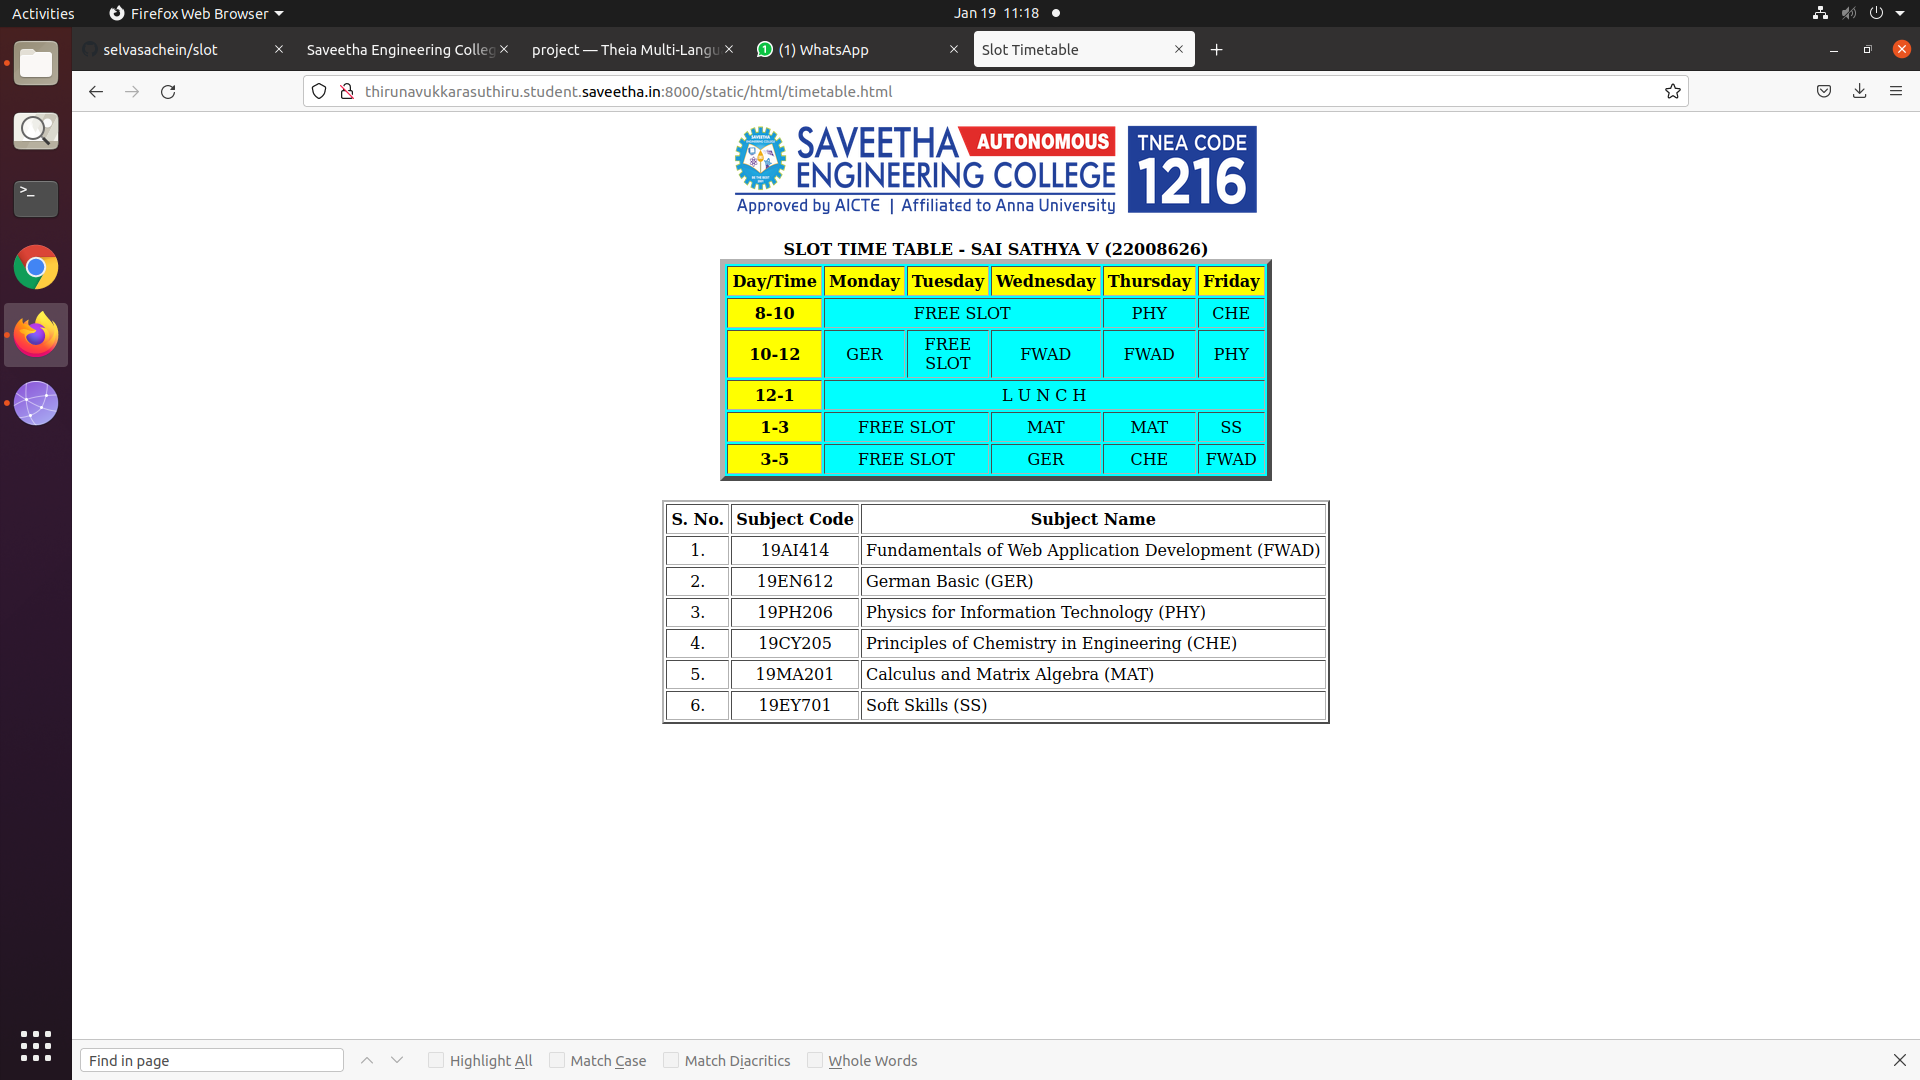
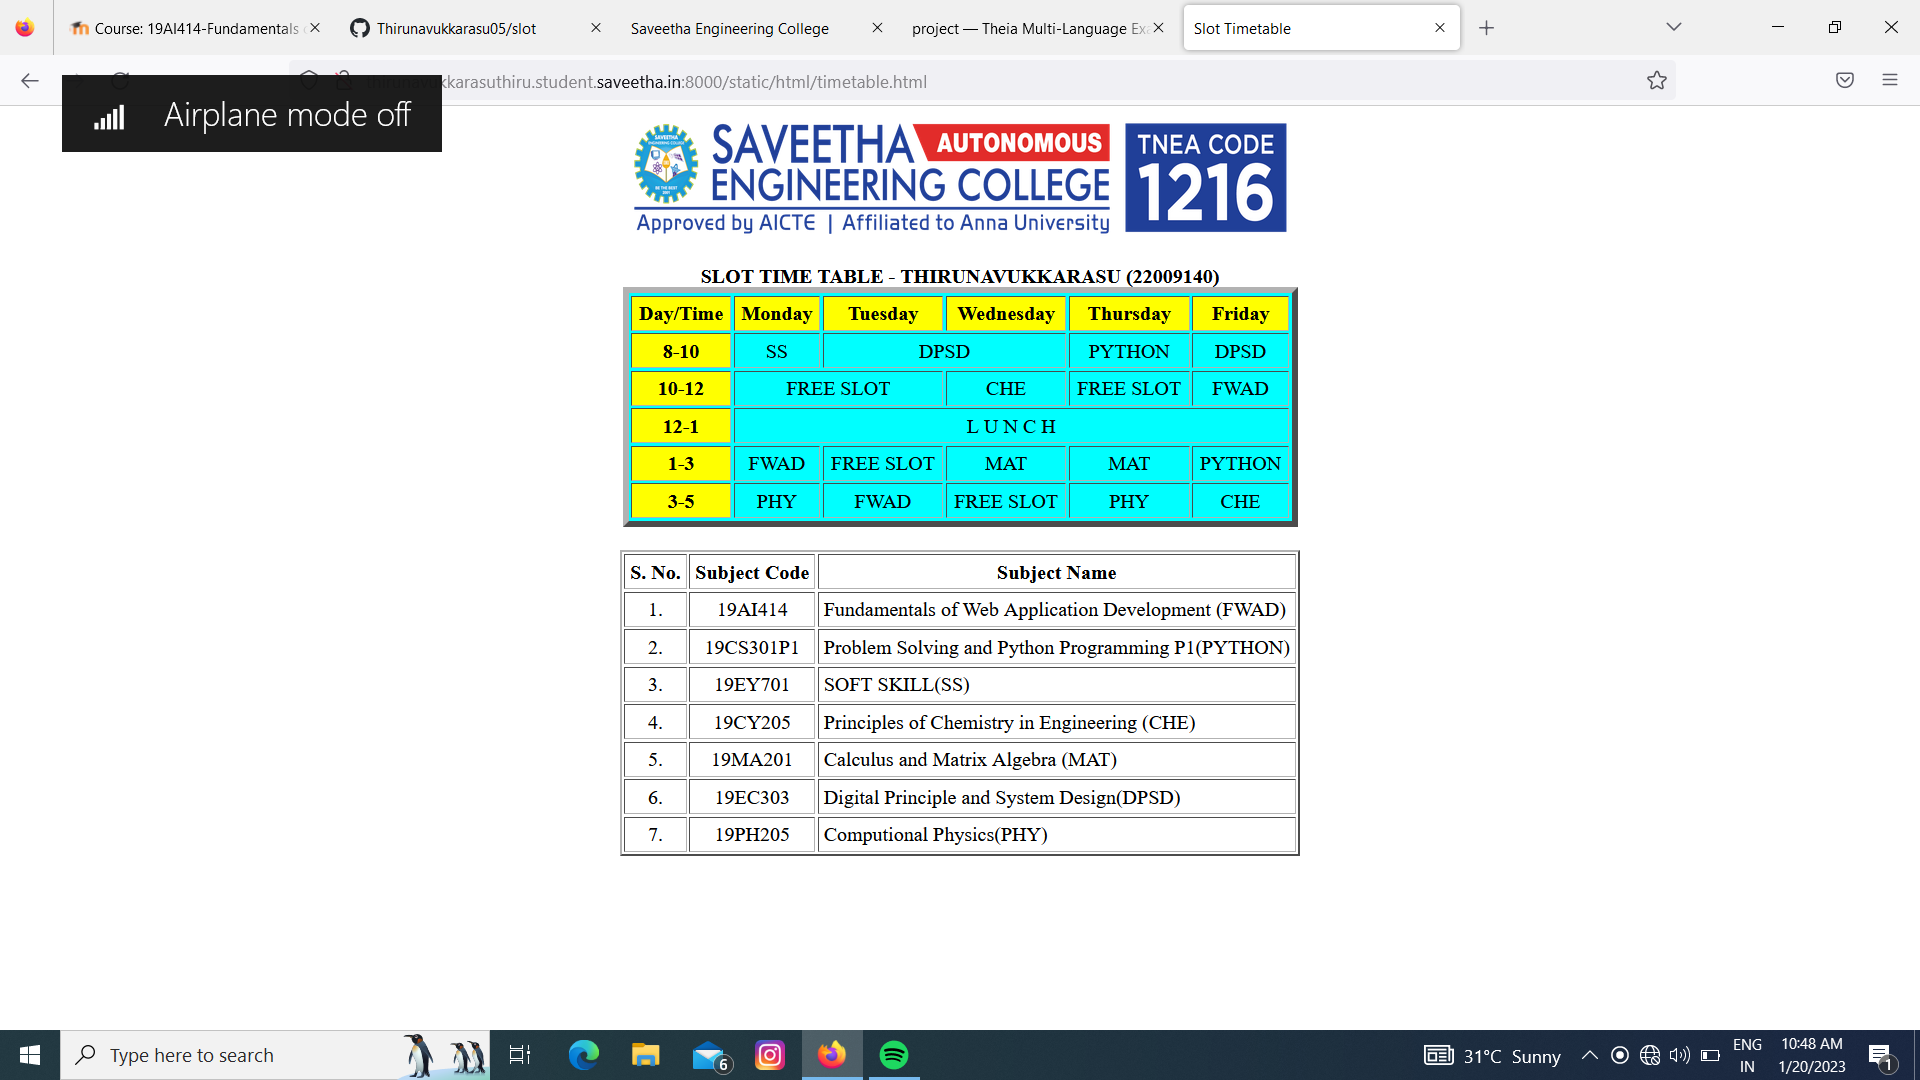
Success

Changed region(s): [[0.0, 0.0, 1.0, 1.0], [0.1875, 0.9472, 1.0, 1.0], [0.6562, 0.7639, 0.6875, 0.7944]]

diff --git a/mypro/static/html/timetable.html b/mypro/static/html/timetable.html
@@ -9,7 +9,7 @@
 </center>
 <br>
 <table align="center" width="540" cellspacing="2" cellpadding="4" border="5" bgcolor="cyan">
-<caption><b>SLOT TIME TABLE - SAI SATHYA V (22008626)</b></caption>
+<caption><b>SLOT TIME TABLE - THIRUNAVUKKARASU (22009140)</b></caption>
 <tr align="center">
 <th bgcolor="yellow">Day/Time</th>
 <th bgcolor="yellow">Monday</th>
@@ -20,17 +20,17 @@
 </tr>
 <tr align="center">
 <th bgcolor="yellow">8-10</th>
-<td colspan="3">FREE SLOT</td>
-<td>PHY</td>
-<td>CHE</td>
+<td>SS</td>
+<td colspan="2">DPSD</td>
+<td>PYTHON</td>
+<td>DPSD</td>
 </tr>
 <tr align="center">
 <th bgcolor="yellow">10-12</th>
-<td>GER</td>
-<td> FREE SLOT </td>
+<td colspan="2"> FREE SLOT </td>
+<td>CHE</td>
+<td>FREE SLOT</td>
 <td>FWAD</td>
-<td>FWAD</td>
-<td>PHY</td>
 </tr>
 <tr>
 <th bgcolor="yellow">12-1</th>
@@ -38,17 +38,19 @@
 </tr>
 <tr align="center">
 <th bgcolor="yellow">1-3</th>
-<td colspan="2"> FREE SLOT </td>
+<td>FWAD</td>
+<td>FREE SLOT</td>
 <td>MAT</td>
 <td>MAT</td>
-<td>SS</td>
+<td>PYTHON</td>
 </tr>
 <tr align="center">
 <th bgcolor="yellow">3-5</th>
-<td colspan="2"> FREE SLOT </td>
-<td>GER</td>
-<td>CHE</td>
+<td>PHY</td>
 <td>FWAD</td>
+<td> FREE SLOT </td>
+<td>PHY</td>
+<td>CHE</td>
 </tr>
 </table>
 <br>
@@ -65,13 +67,13 @@
 </tr>
 <tr>
 <td align="center">2.</td>
-<td align="center">19EN612</td>
-<td>German Basic (GER)</td>
+<td align="center">19CS301P1</td>
+<td>Problem Solving and Python Programming P1(PYTHON)</td>
 </tr>
 <tr>
 <td align="center">3.</td>
-<td align="center">19PH206</td>
-<td>Physics for Information Technology (PHY)</td>
+<td align="center">19EY701</td>
+<td>SOFT SKILL(SS)</td>
 </tr>
 <tr>
 <td align="center">4.</td>
@@ -85,8 +87,13 @@
 </tr>
 <tr>
 <td align="center">6.</td>
-<td align="center">19EY701</td>
-<td>Soft Skills (SS)</td>
+<td align="center">19EC303</td>
+<td>Digital Principle and System Design(DPSD)</td>
+</tr>
+<tr>
+<td align="center">7.</td>
+<td align="center">19PH205</td>
+<td>Computional Physics(PHY)</td>
 </tr>
 </table>
 </body>

diff --git a/README.md b/README.md
@@ -29,7 +29,7 @@ Execute the program
 </center>
 <br>
 <table align="center" width="540" cellspacing="2" cellpadding="4" border="5" bgcolor="cyan">
-<caption><b>SLOT TIME TABLE - SAI SATHYA V (22008626)</b></caption>
+<caption><b>SLOT TIME TABLE - THIRUNAVUKKARASU (22009140)</b></caption>
 <tr align="center">
 <th bgcolor="yellow">Day/Time</th>
 <th bgcolor="yellow">Monday</th>
@@ -40,17 +40,17 @@ Execute the program
 </tr>
 <tr align="center">
 <th bgcolor="yellow">8-10</th>
-<td colspan="3">FREE SLOT</td>
-<td>PHY</td>
-<td>CHE</td>
+<td>SS</td>
+<td colspan="2">DPSD</td>
+<td>PYTHON</td>
+<td>DPSD</td>
 </tr>
 <tr align="center">
 <th bgcolor="yellow">10-12</th>
-<td>GER</td>
-<td> FREE SLOT </td>
+<td colspan="2"> FREE SLOT </td>
+<td>CHE</td>
+<td>FREE SLOT</td>
 <td>FWAD</td>
-<td>FWAD</td>
-<td>PHY</td>
 </tr>
 <tr>
 <th bgcolor="yellow">12-1</th>
@@ -58,17 +58,19 @@ Execute the program
 </tr>
 <tr align="center">
 <th bgcolor="yellow">1-3</th>
-<td colspan="2"> FREE SLOT </td>
+<td>FWAD</td>
+<td>FREE SLOT</td>
 <td>MAT</td>
 <td>MAT</td>
-<td>SS</td>
+<td>PYTHON</td>
 </tr>
 <tr align="center">
 <th bgcolor="yellow">3-5</th>
-<td colspan="2"> FREE SLOT </td>
-<td>GER</td>
-<td>CHE</td>
+<td>PHY</td>
 <td>FWAD</td>
+<td> FREE SLOT </td>
+<td>PHY</td>
+<td>CHE</td>
 </tr>
 </table>
 <br>
@@ -85,13 +87,13 @@ Execute the program
 </tr>
 <tr>
 <td align="center">2.</td>
-<td align="center">19EN612</td>
-<td>German Basic (GER)</td>
+<td align="center">19CS301P1</td>
+<td>Problem Solving and Python Programming P1(PYTHON)</td>
 </tr>
 <tr>
 <td align="center">3.</td>
-<td align="center">19PH206</td>
-<td>Physics for Information Technology (PHY)</td>
+<td align="center">19EY701</td>
+<td>SOFT SKILL(SS)</td>
 </tr>
 <tr>
 <td align="center">4.</td>
@@ -105,8 +107,13 @@ Execute the program
 </tr>
 <tr>
 <td align="center">6.</td>
-<td align="center">19EY701</td>
-<td>Soft Skills (SS)</td>
+<td align="center">19EC303</td>
+<td>Digital Principle and System Design(DPSD)</td>
+</tr>
+<tr>
+<td align="center">7.</td>
+<td align="center">19PH205</td>
+<td>Computional Physics(PHY)</td>
 </tr>
 </table>
 </body>
